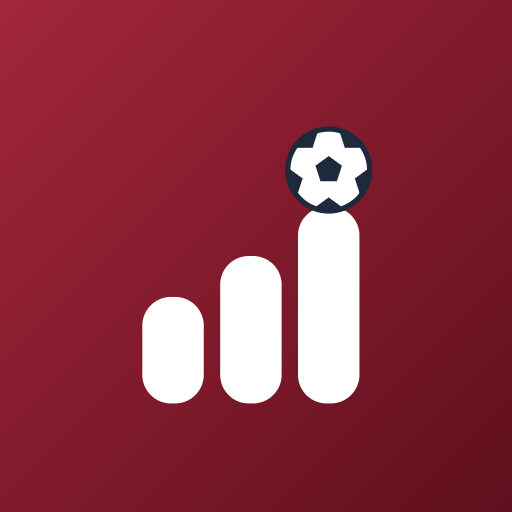
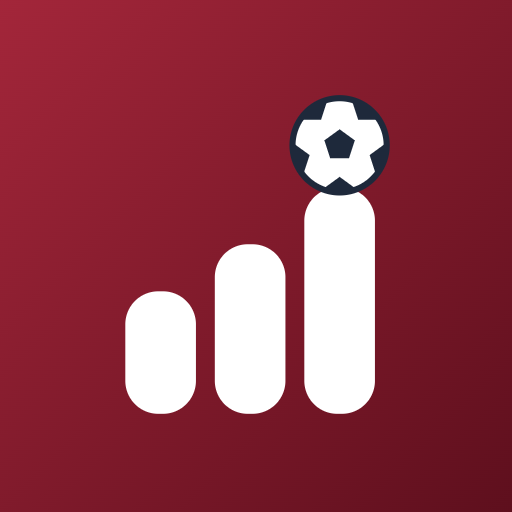
Store (PO-322, giro 116): Capacitor 8 / API 36, dist -210 MB, icona RGBA, onboarding tester, AAB provato
- Capacitor ^8.6.0 (target/compileSdk 36, minSdk 24), workflow Node 22 + JDK 21
- build-dist esclude assets/source e file non referenziati (348 -> 138 MB); validate-dist conta i 404 locali
- icona 512 PNG RGBA; TESTER_ONBOARDING con com.korward.elite e passi Google
- rapporto USCITA-STORE-184 aggiornato (AAB non firmato costruito, 105 MB) + RAPPORTO-giro116

Claude-Session: https://claude.ai/code/session_01QEYiaAySsCZ7nAqeyv7mNA

Changed region(s): [[0.5312, 0.1875, 0.7812, 0.8125], [0.375, 0.4375, 0.5938, 0.8125], [0.2188, 0.5625, 0.375, 0.8125]]

diff --git a/docs/governo/USCITA-STORE-184.md b/docs/governo/USCITA-STORE-184.md
@@ -1,0 +1,208 @@
+# USCITA-STORE-184 — Verifica di preparazione a Google Play (PO-322)
+
+> Base: `lavoro/184` = main = **7.999.183** · ramo `collaudo/184-store` · data: 07/11/2026.
+> Sessione figlia di **sola lettura** sul gioco (`src/` non toccato). Nessuna credenziale usata, nessun account creato, nulla inviato a Google, nessuna firma.
+> Le pagine Google sono state lette il **07/11/2026** (URL sotto). Dove non ho potuto verificare: «Non posso confermarlo».
+
+## 0. Sintesi per il PO (in 6 righe)
+
+1. **Il gioco impacchettato funziona**: `build-dist` e `validate-dist` verdi, offline, AI spenta, zero richieste esterne, versione 7.999.183.
+2. **Manca il guscio Android generato** (`android/` non esiste nel repo, per scelta: lo crea `npx cap add android` — in CI o sul PC). **Nessun AAB è mai stato prodotto/verificato in questa sessione** (rete a `dl.google.com` non provata/documentata come bloccata; SDK Android assente).
+3. **BLOCCO TECNICO NUOVO: livello API.** Il repo usa Capacitor `^6.2.0`, che per default punta a **API 34**. Google, dal **31/08/2026**, richiede per le nuove app **API 36 o superiore** (proroga fino al 01/11/2026 solo per chi la chiedeva: è già scaduta). Con Capacitor 6 l'upload verrebbe rifiutato. Serve passare a Capacitor 8 (default API 36) o forzare `targetSdkVersion=36`. `PACKAGING.md` e `PLAY_STORE_READINESS.md` dicono «API 35»: **sono superati**.
+4. **BLOCCO DI PESO/PULIZIA:** `dist/` pesa **336 MB** (298 MB compresso) perché include `assets/source/` (142 MB: FBX originali, `TEXTURES.zip`, modello CGTrader sorgente), che il gioco **non referenzia** (0 occorrenze in `index.html`). Senza quella cartella: **194 MB / 157 MB compresso**. Il limite Google del base module è 500 MB compressi, quindi entra comunque, ma oltre 200 MB l'utente su rete mobile vede un avviso; e distribuire i file sorgente di un modello acquistato è un **rischio di licenza** (da verificare, vedi §4).
+5. **Test chiuso**: se l'account Play è personale e creato dopo il 13/11/2023, servono **≥12 tester per 14 giorni consecutivi** prima della produzione → **«fra 2-3 giorni» in produzione non è raggiungibile** per questo percorso. Non so se l'account esista né di che tipo: «Non posso confermarlo».
+6. **Il PO deve decidere/fare 14 cose** (§7); le prime tre sbloccano tutto.
+
+## 1. Cosa è già stato preparato e quando
+
+Fonti: `PLAY_STORE_READINESS.md` (studio, v5.45.2), `PACKAGING.md`, `STORE_LISTING.md`, `PRIVACY_POLICY.md` + `privacy.html`, `TESTER_ONBOARDING.md`, `capacitor.config.json`, `.github/workflows/android-build.yml`, `store-assets/`, `resources/`, CLAUDE.md. Date: i commit visibili nella cronologia attuale di questi file sono `71d4edf9` e `e1fc7fd7` del 21/10/2026 e `29b6b6c7` del 02/11/2026; le date originali di creazione di ciascun file non le ho ricostruite (**non posso confermarle**). Il testo di `PRIVACY_POLICY.md` porta «6 agosto 2026».
+
+| Roadmap | Cosa | Stato dichiarato nei documenti |
+|---|---|---|
+| 1.1 | Precompilazione JSX (`tools/build-dist.mjs`) | fatto, **riverificato oggi** |
+| 1.2 | Bundle locale, zero CDN | fatto, **riverificato oggi** |
+| 1.3 | Capacitor: `package.json`, `capacitor.config.json`, `resources/`, CI `android-build.yml` | scaffold; «resta compilare l'AAB su PC/CI» |
+| 1.4 | Storage nativo (`@capacitor/preferences`) + export/import salvataggio | fatto (in build) |
+| 1.5 | De-branding + `tools/audit-copyright.mjs` | fatto (tecnico) — **non rieseguito oggi** (vedi §2) |
+| 1.6 | AI spenta in build store (`__CPM_STORE_BUILD`) | fatto, **riverificato oggi** |
+| 1.6b | Bottone donazione (PayPal) | fatto in codice — **vedi rischio §4** |
+| 1.7 | Privacy policy (bozza) | `privacy.html` **online (HTTP 200 oggi)**; data «6 agosto 2026» |
+| 1.8 | Account Play, keystore, Play App Signing | **non fatto** (solo PO) |
+| 1.9 | Testi scheda, icona 512, feature graphic, 3 screenshot | grafiche presenti; screenshot «grezzi» |
+| 1.10 | Error boundary globale | fatto |
+| 1.11 | Test su device entry-level reale | **non fatto** |
+
+## 2. Esecuzione degli strumenti (oggi, uno alla volta)
+
+Prerequisito: in questa sessione mancava `tests/visual/node_modules`; ho eseguito `npm install` in `tests/visual` (come da PACKAGING.md). Il modulo `playwright` cercava una build browser assente → ho usato `CPM_CHROME=/opt/pw-browsers/chromium` (regola CLAUDE.md), senza `playwright install`.
+
+| Strumento | Esito | Uscita significativa |
+|---|---|---|
+| `node tools/build-dist.mjs` | **OK** (exit 0, 7,2 s) | JSX 6582 KB → 5439 KB transpilato; «CH38 escluso dal pacchetto: 10,99 MB»; `dist/index.html` 6528 KB (6.684.939 byte); «CDN residue: nessuna · Babel-in-browser rimosso» |
+| `node tools/validate-dist.mjs` | **OK** (exit 0) | React montato ✅ · home con «Nuova carriera» ✅ · richieste esterne **nessuna** ✅ · errori console **nessuno** ✅ · flag build store attivo ✅ → «DIST OFFLINE FUNZIONANTE» |
+| `node tools/gen-store-graphics.mjs` | **OK** | rigenera `play-icon-512.png` e `feature-graphic.png`; i file rigenerati differivano dai versionati (binari non deterministici): **ripristinati con `git checkout`**, nessuna modifica committata |
+| `node tools/audit-copyright.mjs` | **NON ESEGUITO** | non richiesto dal mandato; CLAUDE.md lo dichiara «obbligatorio, 0 hit» prima di pubblicare → da rilanciare dal team (§7, T4) |
+
+## 3. Verifiche sulla build store (`dist/`)
+
+Sonda scritta nello scratchpad, caricando `dist/` con rete esterna bloccata e una chiave finta `cpm-api-key` in `localStorage`, su 4 URL (`""`, `?cpmtest=1`, `?cpmtest=1&sit=5`, `?glb=0&debug=1`).
+
+| Verifica | Risultato | Prova |
+|---|---|---|
+| Funzione AI spenta | **OK** | `window.__CPM_STORE_BUILD===true`; `callClaudeAPI()` con chiave presente → `{success:false,error:"disabled_store_build"}` (`src/09-audio-scout-anagrafiche.jsx:521-523`). Il solo riferimento a `api.anthropic.com` nel bundle è nel ramo non raggiungibile |
+| Nessuna chiamata di rete esterna | **OK** | 0 richieste esterne su tutti e 4 gli URL (rete bloccata, `ext=[]`) |
+| `GAME_VERSION` | **OK** | sorgente `7.999.183`; la UI della build mostra «7.999.183» |
+| Ganci di collaudo | **PARZIALE / da verificare** | `_CPM_TEST` è escluso nella build store (`!window.__CPM_STORE_BUILD && cpmtest`) e `?cpmtest=1` da solo non cambia nulla (37 globali `__CPM_*` in entrambi i casi). Ma **37 globali `__CPM_*` esistono sempre** (es. `__CPM_TIMELINE`, `__CPM_EV`, `__CPM_MIGRATE`, `__CPM_PERSIST167`, `__CPM_ERRLOG`, `__CPM_SITS`) e con `?cpmtest=1&sit=5` salgono a **141** e la pagina entra in scena di prova (la UI non mostra la versione). In app Capacitor l'utente non può digitare un URL con parametri, quindi il rischio pratico è **basso**; lo dichiaro perché l'obiettivo «niente ganci esposti» è **soddisfatto per l'utente finale ma non per chi ispeziona la WebView** |
+| Peso pacchetto | **ATTENZIONE** | vedi tabella sotto |
+| Icone/grafiche | **OK** | vedi tabella sotto |
+| Manifest PWA (`dist/manifest.webmanifest`) | OK | 192, 512, maskable 512; nome «Korward Elite: Football Career Simulator» |
+
+Peso (misurato oggi):
+
+| Contenuto | Non compresso | Compresso (tar.gz, indicativo) |
+|---|---|---|
+| `dist/` completa | 336 MB, 1.122 file | **298 MB** |
+| senza `assets/source/` | **194 MB** | **157 MB** |
+| `assets/source/` (inutilizzata dal gioco) | 142 MB | ~141 MB |
+| `index.html` | 6,4 MB | — |
+
+Il limite Google è sulla «dimensione compressa del download» calcolata da Play Console (non uguale al tar.gz): la cifra vera si saprà solo alla prima build dell'AAB. **Non posso confermarla** da qui.
+
+Grafiche (misurate con `file`) contro i requisiti letti su Google:
+
+| Asset | Nel repo | Requisito Google | Esito |
+|---|---|---|---|
+| Icona | `store-assets/play-icon-512.png` 512×512, **RGB (senza alfa)** | «32-bit PNG (with alpha)», 512×512, max 1024 KB | **da correggere**: manca il canale alfa. Peso da controllare (≤1024 KB) |
+| Feature graphic | `store-assets/feature-graphic.png` 1024×500, RGB | JPEG o PNG 24 bit senza alfa, 1024×500 | OK |
+| Screenshot | 3 PNG 1080×1920, RGB (`01-home`, `02-create`, `03-match`) | min **2**, max 8 per tipo di dispositivo, 24 bit senza alfa, lato 320–3840, rapporto ≤2:1; portrait ≥1080×1920 per i formati grandi | OK per dimensioni; sono catture headless |
+| Icone launcher Android | `resources/` 1024² (foreground con alfa + background) + `icon-*.png` | generate da `npm run assets:android` dopo `cap add android` | non verificabile qui (`sharp` bloccato) |
+
+## 4. Come diventa un'app Android — e cosa manca
+
+**Scelta già fatta e documentata: Capacitor** (WebView di sistema che carica `dist/` offline). Cordova/TWA non sono implementati: TWA è «piano B» nel documento (richiede hosting HTTPS + Digital Asset Links). Nel repo: `capacitor.config.json` (`appId com.korward.elite`), dipendenze `@capacitor/*` `^6.2.0`, workflow `.github/workflows/android-build.yml` (JDK 17, `cap add android`, versionCode da numero di run, `bundleRelease`, firma da secret, upload su Play facoltativo).
+
+**Manca / da correggere (tutto verificato nel repo):**
+
+1. **Nessun progetto `android/`** (creato a ogni run dalla CI: voluto). Nessun AAB mai compilato qui.
+2. **API di destinazione**: Capacitor 6.2.1 usa come default `targetSdk 34 / compileSdk 34 / minSdk 22` (letto oggi nel pacchetto npm `@capacitor/android@6.2.1`, file `build.gradle`); Capacitor 7.6.10: 35/23; **Capacitor 8.6.0: 36/24**. Sono i default della *libreria*; il valore finale dell'app lo fissa il template `variables.gradle` creato da `cap add android`: **da confermare dopo la prima generazione**. Opzioni: (a) aggiornare a Capacitor 8 (consigliata; richiede ritest di plugin e verifica di Node/JDK richiesti: **non verificati**); (b) restare su 6 e forzare `targetSdkVersion=36` (rischio: incompatibilità non testate con il plugin).
+3. **Coerenza nomi/ID**: `TESTER_ONBOARDING.md` riga 17 usa il link `…/com.elevora.football` mentre l'appId è `com.korward.elite` → link sbagliato per i tester. Da correggere (documento, non codice).
+4. **Permesso `INTERNET`**: il template lo include; PACKAGING.md suggerisce di toglierlo. Va deciso (vedi donazione).
+5. **Pacchetto**: escludere `assets/source/` da `dist/` (modifica a `tools/build-dist.mjs`, fuori dal mio mandato di sola lettura). Controllare inoltre che `assets/source/cgtrader-soccer-player` (19 file tracciati in git, incl. `originals/*.fbx`, `TEXTURES.zip`) possa essere distribuito: la **licenza** del modello acquistato non l'ho letta → «Non posso confermarlo».
+6. **Donazione PayPal** (`DONATION_URL="https://paypal.me/elevoraCPM"`, `src/07-versione-save-interviste.jsx:64`, bottone «☕ Sostieni il progetto» in `src/18-career-app.jsx:12141`, presente nella build store). La pagina Google «Payments» (answer/9858738, letta oggi) vieta di indirizzare gli utenti a un metodo di pagamento diverso da Google Play Billing; l'esenzione che ho letto cita le **«tax exempt donations»**, e non chiarisce il caso di mance a uno sviluppatore individuale. **Non posso confermare** che il bottone sia ammesso → rischio di rifiuto in revisione. Opzioni: toglierlo dalla build store (`DONATION_URL=""` nasconde il bottone, secondo il codice) o chiedere conferma al supporto Play.
+7. **Test su dispositivo reale** (avvio, fps, memoria, WebView datata): mai fatto (1.11). La build è 194–336 MB e usa Three.js r128 + GLB: **rischio concreto** su telefoni di fascia bassa; nessun dato misurato.
+
+## 5. Requisiti Google Play Console (pagine lette il 07/11/2026)
+
+| Argomento | Cosa dice la fonte | Fonte (letta 07/11/2026) |
+|---|---|---|
+| Target API | Dal **31/08/2026** nuove app e aggiornamenti: **Android 16 (API 36) o superiore** (Wear/Auto: 35; TV/XR: 34). Proroga fino al 01/11/2026 su richiesta (scaduta). App esistenti: API 35 per restare visibili ai nuovi utenti su OS più recenti | https://developer.android.com/google/play/requirements/target-sdk |
+| Livello API minimo (minSdk) | Google non impone un minSdk per le app normali nelle pagine lette; le app >1 GB richiedono minSdk ≥21. Il minSdk lo decide il template Capacitor (22/23/24 a seconda della versione) | https://support.google.com/googleplay/android-developer/answer/9859372 · pacchetti npm Capacitor |
+| Formato AAB | La pagina «Manage your app and app bundles» descrive upload di un app bundle per release; il frammento letto **non dice esplicitamente «obbligatorio»** → «Non posso confermare» il testo letterale (PACKAGING.md lo dà per obbligatorio dal 2021: non verificato oggi) | https://support.google.com/googleplay/android-developer/answer/9859152 |
+| Firma | «Android requires that all apps be digitally signed…»; si può usare chiave generata da Google (Play App Signing) o propria | stessa pagina |
+| Dimensioni | Base module **500 MB** compressi; asset pack 1,5 GB; totale install-time 4 GB; sopra 200 MB avviso non bloccante su rete mobile; APK legacy 100 MB | https://support.google.com/googleplay/android-developer/answer/9859372 |
+| Testi scheda | Titolo **30**, descrizione breve **80**, completa **4.000** caratteri | https://support.google.com/googleplay/android-developer/answer/9859152 |
+| Icona | PNG 32 bit con alfa, **512×512**, max **1024 KB** | https://support.google.com/googleplay/android-developer/answer/9866151 |
+| Feature graphic | JPEG o PNG 24 bit senza alfa, **1024×500** | stessa pagina |
+| Screenshot | min **2**, max 8 per tipo di dispositivo; JPEG/PNG 24 bit senza alfa; lato 320–3840 px, lato lungo ≤2× il corto | stessa pagina |
+| Classificazione contenuti (IARC) | La pagina answer/9859751 non tratta il questionario: **«Non posso confermarlo»** da fonte ufficiale. Per `Pubblicare` la Console mostra gli errori da risolvere | https://support.google.com/googleplay/android-developer/answer/9859751 |
+| Data Safety | «All developers that have an app published on Google Play must complete the Data safety form» (esclusi test interni, servizi di sistema, app private); da compilare **anche se non si raccolgono dati**; il trattamento solo locale non va dichiarato come raccolta. Pagina aggiornata 05/12/2023 | https://support.google.com/googleplay/android-developer/answer/10787469 |
+| Informativa privacy | Link obbligatorio **nella scheda e nell'app**, anche senza dati personali; URL pubblico http/https | https://support.google.com/googleplay/android-developer/answer/9859455 (letto: contenuto sul link nell'app) |
+| Pubblico di destinazione | Dichiarazione obbligatoria (App content → Target audience and content) per nuove app e aggiornamenti, dopo aver dichiarato annunci/accesso e inserito la privacy policy; la dichiarazione errata può portare a rimozione/sospensione (sintesi da ricerca web su answer/9285070 e 9893335: **non letta direttamente la pagina**) | https://support.google.com/googleplay/android-developer/answer/9285070 |
+| Test chiuso (account personali nuovi) | Account personali creati dopo il **13/11/2023**: closed test con **≥12 tester iscritti ininterrottamente per ≥14 giorni**; 14 giorni consecutivi (se un tester esce e rientra il conteggio riparte) | https://support.google.com/googleplay/android-developer/answer/14151465 |
+| Pagamenti | vietato guidare verso metodi di pagamento diversi da Google Play Billing; eccezioni per «tax exempt donations» e programmi di fatturazione alternativa | https://support.google.com/googleplay/android-developer/answer/9858738 |
+| Verifica identità, tempi di revisione | Solo fonti terze (blog): revisione dell'accesso alla produzione «di solito entro 7 giorni», identità con documento. **Non confermato da Google → «Non posso confermarlo»** | ricerca web, nessuna pagina ufficiale letta |
+
+## 6. Tabella requisito · stato · prova · chi
+
+Legenda: **pronto** / **manca** / **da verificare**. «Team» = fattibile da una sessione di lavoro; «PO» = solo il proprietario.
+
+| # | Requisito | Stato | Prova | Chi |
+|---|---|---|---|---|
+| 1 | Build web offline, senza CDN | pronto | §2 `validate-dist` verde | team |
+| 2 | AI spenta, nessuna chiamata esterna | pronto | §3 sonda: `disabled_store_build`, 0 richieste | team |
+| 3 | `GAME_VERSION` coerente | pronto | 7.999.183 nel sorgente e nella UI della build | team |
+| 4 | Ganci di collaudo non esposti | da verificare | 37 globali `__CPM_*` sempre presenti; `?cpmtest=1&sit=5` attiva scena di prova; rischio basso in app | team (decisione PO se chiuderli) |
+| 5 | Peso del pacchetto | **pronto (giro 116)** | dist 348 MB/298 MB compr. → **138 MB/107 MB**; AAB 110 MB (§9) | team |
+| 6 | File sorgente del modello 3D nel pacchetto | **pronto nel pacchetto** · licenza da verificare | `assets/source/` fuori da `dist/` e dall'AAB (0 file `assets/source` nel bundle); licenza del modello non letta | PO (licenza) |
+| 7 | Guscio Android (progetto `android/`) | **pronto** | `npx cap add android` + `cap sync` eseguiti in sessione (Capacitor 8.6.0); `android/` resta non versionato | team |
+| 8 | AAB compilato | **fatto (non firmato)** | `./gradlew bundleRelease` BUILD SUCCESSFUL, `app-release.aab` 109.731.296 byte (§9). Firma: solo PO | team / PO (firma) |
+| 9 | Target API 36 | **pronto** | Capacitor `^8.6.0`; manifest fuso della release: `targetSdkVersion="36"` (§9) | team |
+| 10 | minSdk | **pronto** | `minSdkVersion="24"` nel manifest fuso (§9) | team |
+| 11 | Firma / keystore upload | manca | nessun keystore nel repo; workflow legge i secret | **PO** (crea e custodisce) |
+| 12 | Play App Signing | manca | si attiva in Console al primo upload | **PO** |
+| 13 | Account sviluppatore Play | da verificare | non so se esista né di che tipo: «Non posso confermarlo» | **PO** |
+| 14 | Test chiuso 12 tester / 14 giorni | manca (solo PO) | requisito Google riletto il 07/11/2026; `TESTER_ONBOARDING.md` corretto (`com.korward.elite`, passi dalla pagina answer/14151465) | **PO** (tester) |
+| 15 | Icona 512 | **pronto (giro 116)** | `file`: 512×512, 8-bit/color **RGBA**; 25.069 byte (≤1024 KB); generata da `tools/gen-store-graphics.mjs` corretto | team |
+| 16 | Feature graphic 1024×500 | pronto | RGB 1024×500 | team |
+| 17 | Screenshot ≥2 | pronto (qualità da valutare) | 3 × 1080×1920; catture headless | team / PO per scelta |
+| 18 | Testi scheda | pronto | `STORE_LISTING.md`: titolo 30/30, breve 78/80, completa ~1.500/4.000 | PO (approva) |
+| 19 | Disclaimer nomi di fantasia | pronto | nella descrizione completa | team |
+| 20 | Audit de-branding (0 hit) | **pronto** | `node tools/audit-copyright.mjs` → «OK — nessun riferimento al mondo reale», exit 0 (07/11/2026) | team |
+| 21 | Informativa privacy online | pronto | `privacy.html` HTTP 200; data 06/08/2026; email contatto presente | PO (conferma contenuto) |
+| 22 | Link privacy anche dentro l'app | **manca nel gioco** | `grep -i privacy src/*.jsx`: 0 occorrenze di un link/URL all'informativa (solo commenti non correlati). Da aggiungere nel pannello Crediti (`Crediti238`, `src/17-menu-creazione-pannelli.jsx`) o in Opzioni, con `privacy.html`; **non aggiunto in questo giro** | team (giro successivo, tocca `src/`) |
+| 23 | Data Safety | manca | si compila in Console: «nessun dato raccolto/condiviso» (compatibile con §3); da rivedere se si tiene `INTERNET`/donazione | **PO** |
+| 24 | Classificazione contenuti IARC | manca | questionario in Console; atteso PEGI 3 (stima del repo, non verificata) | **PO** |
+| 25 | Pubblico di destinazione | manca | dichiarazione in Console | **PO** |
+| 26 | Donazione PayPal in app | da verificare | rischio policy pagamenti, §4.6 | **PO** (decide) |
+| 27 | Prova su telefono reale | manca | mai misurato (1.11) | **PO** (device) + team |
+
+## 7. Azioni che solo il PO può fare — in ordine, con tempi
+
+Stime del **lavoro del PO**; i tempi di attesa di Google sono quelli che ho potuto o non potuto confermare.
+
+| Ord. | Azione | Tempo PO | Attesa Google |
+|---|---|---|---|
+| 1 | **Decidere** il percorso di pubblicazione e dire al team: (a) Capacitor 8 con API 36; (b) togliere dalla build `assets/source/`; (c) togliere o tenere il bottone PayPal | 15 min | — |
+| 2 | **Verificare la licenza** del modello CGTrader (se si possono distribuire i file sorgente/FBX) | 30 min | — |
+| 3 | **Creare/verificare l'account Play Console** (25 $ una tantum secondo i documenti del repo — importo non riletto oggi) con la propria identità e capire se è «personale» o «organizzazione» | 30-60 min | verifica identità/pagamento: **non confermabile** |
+| 4 | **Generare il keystore di upload** (`keytool`, comando in `PACKAGING.md`) e custodirlo (una copia fuori dal PC) | 15 min | — |
+| 5 | **Inserire i 4 secret** nel repository GitHub (`ANDROID_KEYSTORE_BASE64`, `…_PASSWORD`, `…_KEY_ALIAS`, `…_KEY_PASSWORD`) e, se vuole l'upload automatico, `PLAY_SERVICE_ACCOUNT_JSON` | 20-40 min | — |
+| 6 | **Lanciare il workflow «Android AAB»** (dopo i fix del team) e scaricare l'`.aab` | 10 min + durata CI (non misurata) | — |
+| 7 | **Creare l'app in Console** e caricare il primo AAB **a mano** (il primo upload è manuale, secondo PACKAGING.md) in un test chiuso | 30-45 min | elaborazione AAB: **non confermabile** |
+| 8 | **Compilare le sezioni «App content»**: Data Safety (nessun dato), IARC, pubblico di destinazione, annunci = no, privacy URL `https://antoniovairo-rgb.github.io/Carrier-manager-/privacy.html` | 45-60 min | eventuale revisione Google: **non confermabile** |
+| 9 | **Compilare la scheda**: testi di `STORE_LISTING.md`, icona, feature graphic, screenshot | 30-45 min | — |
+| 10 | **Reclutare almeno 12 tester** (meglio 15-20) con account Google e Android, mandare il link di opt-in (usare l'ID **corretto** `com.korward.elite`) | 1-2 giorni di solleciti | — |
+| 11 | **Tenerli iscritti 14 giorni consecutivi** | 0 (attesa) | **14 giorni minimi** (Google, answer/14151465) |
+| 12 | **Richiedere l'accesso alla produzione** in Console | 15 min | **Non posso confermarlo**: una fonte non ufficiale riporta «di solito entro 7 giorni» |
+| 13 | **Provare l'app su un telefono Android vero** (anche non di fascia bassa) durante il test chiuso | 1-2 ore | — |
+| 14 | **Promuovere a produzione** e pubblicare | 15 min | revisione della prima pubblicazione: **non confermabile** |
+
+**Lettura onesta dei tempi:** se l'account è personale e nuovo, il percorso minimo è ~14 giorni di test + eventuale revisione, più il lavoro tecnico del team (Capacitor/API 36, peso, icona, prima build) di qualche giorno. «Fra 2-3 giorni» è realistico **solo** per arrivare a un **test chiuso/interno**, non alla produzione. Se l'account è di tipo organizzazione, il requisito dei 12 tester potrebbe non applicarsi (**non confermato da fonte ufficiale**).
+
+## 8. Cosa ho e non ho fatto
+
+- Fatto: lettura documenti, `npm install` in `tests/visual`, `build-dist`, `validate-dist`, `gen-store-graphics` (output ripristinato), sonda su `dist/`, lettura di 9 pagine Google, confronto con i default dei pacchetti Capacitor 6/7/8.
+- **Non** fatto: `audit-copyright`, `cap add android`, compilazione AAB (SDK assente), prova su dispositivo, lettura diretta della pagina «Target audience» e della pagina IARC.
+- Nessuna modifica a `src/`, a `tools/`, a `CARRIER-MANAGER-AV.html`; `dist/` e `node_modules` non versionati.
+
+
+## 9. Aggiornamento giro 116 (07/11/2026) — parte tecnica di PO-322
+
+Ramo `sviluppo/giro116-store`, base `lavoro/184` = 7.999.183. `src/`, `CARRIER-MANAGER-AV.html` e `GAME_VERSION` non toccati (`check-src` allineato). Nessuna credenziale, nessun account, nulla inviato a Google, nessuna chiave committata.
+
+**9.1 Target API 36.** Passato a Capacitor 8.6.0 (`@capacitor/{cli,android,core}` `^8.6.0`, preferences `^8.0.1`, splash-screen `^8.0.2` — ultime versioni su npm il 07/11/2026). Letto sui pacchetti npm reali: `@capacitor/cli@8.6.0` richiede **Node ≥ 22**; `@capacitor/android@8.6.0` usa **JDK 21** (`VERSION_21`) e default compileSdk 36 / minSdk 24 / targetSdk 36; il template Android del CLI (`variables.gradle`) dà **minSdk 24 · compileSdk 36 · targetSdk 36**, AGP 8.13.0, Gradle 8.14.3. Workflow `android-build.yml`: Node 20→22, JDK 17→21. `PACKAGING.md` e `PLAY_STORE_READINESS.md` aggiornati. Esplicitamente **non** verificato in CI: il workflow non è stato eseguito (nessun push di tag).
+
+**9.2 Pacchetto più leggero.** `tools/build-dist.mjs` esclude `assets/source/`, i `README.md` di `assets/` e 12 file il cui nome non compare in nessun sorgente (5 GLB `hyper-casual-korward-{animated,football,football-black|brown|red}`, `cgtrader-review-lod1/2.glb`, `cgtrader-unreal-axis-…glb`, `cgtrader-ajax-shirt-review.png`, `hero-highlight-portrait-v1.{png,webp}`). I file a nome costruito a runtime (`portraits/`, `avatar-N`, `anim-*`, `hair-colors/`, `korward-regular-*`) restano tutti. Rete di sicurezza: la build fallisce (exit 3) se un `./assets/…` letterale della pagina manca in `dist/`; `CPM_DIST_CON_SORGENTI=1` rimette tutto.
+
+| | file | non compresso | tar.gz |
+|---|---|---|---|
+| prima (`CPM_DIST_CON_SORGENTI=1`) | 1.117 | 348.187.994 B (332 MB) | 297.577.757 B (284 MB) |
+| dopo | 1.089 | 138.093.931 B (132 MB) | 106.587.713 B (102 MB) |
+
+(Il «336 MB / 194 MB» di §3 era `du -sh` in MiB con altro conteggio; qui `du -sb`, byte esatti.) Prova che il gioco gira uguale: `validate-dist` verde prima e dopo (React montato · home · 0 richieste esterne · 0 richieste locali fallite — controllo aggiunto a `validate-dist` · 0 errori console · flag store). Poiché la home carica solo 2 richieste, in più la sonda **`tests/visual/dist-assets-probe.mjs`** (non-gate) gioca una partita vera sul sorgente a GLB acceso (70 s, autoplay): **45 asset richiesti, 45 presenti in dist, 0 mancanti**. Limite: una partita, non ogni scena.
+
+**9.3 Icona.** `tools/gen-store-graphics.mjs` ora scrive `play-icon-512.png` come PNG RGBA (re-encode a colour type 6, alfa 255): 512×512, 8-bit RGBA, 25.069 B. Visivamente verificata. `feature-graphic.png` non modificata (RGB 1024×500, come richiesto).
+
+**9.4 Tester.** `TESTER_ONBOARDING.md`: ID `com.korward.elite`, nome app «Korward Elite», passi del test chiuso dalla pagina Google answer/14151465, **riletta il 07/11/2026** (la pagina non riporta una data di aggiornamento; mostra «©2026 Google»; dice 12 tester · 14 giorni consecutivi · «Apply for production» con tre sezioni · «Review usually takes seven days or less»; non descrive i click per aggiungere i tester).
+
+**9.5 Audit copyright:** 0 hit, exit 0.
+
+**9.6 Privacy in app:** assente (riga 22 tabella). Punto consigliato: pannello Crediti (`Crediti238`) o Opzioni, link a `https://antoniovairo-rgb.github.io/Carrier-manager-/privacy.html`. Non aggiunto.
+
+**9.7 Build AAB — riuscita (non firmata).** Rete: `dl.google.com`, `maven.google.com`, `services.gradle.org`, `plugins.gradle.org` → HTTP 200. Passi: `npm install` (radice e `tests/visual`), `npm run build:web`, `npx cap add android`, `npx cap sync android`, command-line tools Android (`commandlinetools-linux-13114758`) + `platforms;android-36`, `build-tools;36.0.0`, `platform-tools` in `/opt/android-sdk`, `./gradlew bundleRelease`. I primi due tentativi sono falliti per **HTTP 429 «Too Many Requests» da `repo.maven.apache.org`** (limite del proxy di sessione, es. `gson-2.11.0.pom`); il terzo ha completato — «BUILD SUCCESSFUL in 1m». Esito:
+- `android/app/build/outputs/bundle/release/app-release.aab` = **109.731.296 byte (105 MB)**, 1.532 voci (146.188.520 B scompattati), 0 voci `assets/source`.
+- Manifest fuso della release (`merged_manifest/release`): `package="com.korward.elite"`, **`minSdkVersion="24"`, `targetSdkVersion="36"`**, `versionCode=1` (la CI lo sovrascrive), permesso `INTERNET` presente. Letto dal manifest fuso e non dall'interno dell'AAB: **bundletool** non è stato scaricato (la richiesta di scaricare il jar da GitHub è stata negata dalla sessione) e `aapt2 dump` non legge il manifest in formato proto. Il manifest proto dentro l'AAB deriva da quello fuso, ma «non posso confermarlo» byte per byte.
+- AAB **non firmato**, non committato (`android/` è in `.gitignore`); nessuna chiave generata.
+- **Nota di peso:** 105 MB di AAB contro i 107 MB di tar.gz della dist: compatibile con il limite Google di 500 MB sul base module (§5); il valore compresso «ufficiale» lo calcola la Console.
+
+**9.8 Verifiche di non-regressione:** `check-src` allineato byte per byte · `validate-dist` verde · `test:logic` 43/43 · `save-compat` 12 pass/0 fail.

diff --git a/PLAY_STORE_READINESS.md b/PLAY_STORE_READINESS.md
@@ -130,7 +130,7 @@ Il prezzo da pagare (update via store, WebView di sistema) è accettabile e gest
 - **Account Google Play Developer:** **25 $ una tantum** (non annuale), 1 sola volta per l'account. Identità verificata (dal 2023 Google richiede verifica D-U-N-S per account *organizzazione*; per account **personale** servono nome/indirizzo verificati e, per i nuovi account personali, **test chiuso con ≥12 tester per 14 giorni** prima della produzione — vincolo recente da pianificare).
 - **Formato:** **AAB obbligatorio** (l'APK non è più accettato per i nuovi upload dal 2021). Bubblewrap/Capacitor producono entrambi AAB.
 - **Firma:** **Play App Signing** raccomandato/predefinito — carichi un *upload key*, Google gestisce la *signing key* finale. **Conserva il keystore upload + password** in modo sicuro (se lo perdi, recupero possibile ma macchinoso). Va creato un **keystore** (`.jks`) una tantum.
-- **Target API level:** Google impone di **targettizzare un'API level recente**. Regola corrente: i nuovi upload devono targettizzare un livello entro ~1 anno dall'ultima major Android (al 2025: **API 35 / Android 15** per nuove app e aggiornamenti). Va verificato in Console al momento del rilascio: è una **moving target** annuale.
+- **Target API level:** **SUPERATO (giro 116, 07/11/2026).** Dal 31/08/2026 le nuove app devono puntare ad **API 36 o superiore** (https://developer.android.com/google/play/requirements/target-sdk). Il repo è passato a **Capacitor 8.6.0** (target 36, minSdk 24). Il testo originale («API 35, ~1 anno») è storico.
 - **Permessi:** dichiarati nel `AndroidManifest`. Per noi servono **pochissimi** (vedi §5): di base **`INTERNET`** (solo se teniamo la feature AI o gli ads); idealmente **nessun permesso sensibile**.
 
 ---
@@ -342,7 +342,7 @@ Legenda costo/tempo: **S** ≤½ gg · **M** 1–2 gg · **L** sprint. Priorità
 | **1.0** | **🔴 REFACTOR QUALITÀ LIVE MATCH 3D — animazioni + regia/camera** (parte per primo; vedi §10.bis) | **L+** (multi-sprint, a tempo aperto) | **Alto** (perceptual/gate-blind) | **P0 #1** |
 | 1.1 | ✅ **FATTO** — **Precompilare il JSX** (`tools/build-dist.mjs`): build di packaging che elimina Babel-in-browser; sorgente HTML invariato | M | Basso | **P0** |
 | 1.2 | ✅ **FATTO** — **Bundle locale** di React/ReactDOM/Three(+loaders) inline nella dist; zero CDN nell'artefatto. Validato offline (`tools/validate-dist.mjs`) | M | Basso | **P0** |
-| 1.3 | ✅ **FATTO (scaffold)** — **Packaging Capacitor**: `package.json` + `capacitor.config.json` (appId `com.elevora.football`, `webDir=dist`, splash), script npm, bridge **storage nativo** in build, **icona/splash granata** (`resources/` + `tools/gen-assets.mjs`), **CI** `.github/workflows/android-build.yml`. Guida in `PACKAGING.md`. *Resta:* compilare l'AAB su PC/CI con Android SDK | M | Basso-medio | **P0** |
+| 1.3 | ✅ **FATTO (scaffold)** — **Packaging Capacitor**: `package.json` + `capacitor.config.json` (appId `com.korward.elite`, `webDir=dist`, splash), script npm, bridge **storage nativo** in build, **icona/splash granata** (`resources/` + `tools/gen-assets.mjs`), **CI** `.github/workflows/android-build.yml`. Guida in `PACKAGING.md`. *Resta:* compilare l'AAB su PC/CI con Android SDK | M | Basso-medio | **P0** |
 | 1.4 | ✅ **FATTO** — **Storage nativo** via wrapper `storage` (`window.storage` anti-eviction, già presente) + **export/import** save (`exportSave`/`importSave`, già nella UI) | M | Basso | **P0** |
 | 1.5 | ✅ **FATTO (tecnico)** — **Chiusura de-branding**: rinominati gli ultimi 2 club reali (Dortmund/Leverkusen→Goldwald/Werkstadt); `_auditCopyrightSafety` → **gate CI bloccante** (`tools/audit-copyright.mjs`, 0 hit). *Resta:* disclaimer testuale nel listing (asset, 1.9) | M | Medio | **P0** |
 | 1.6 | ✅ **FATTO** — **Feature AI disattivata nella build store** (`window.__CPM_STORE_BUILD` impostato da `build-dist.mjs` → `callClaudeAPI` esce subito; zero chiamate esterne) → Data Safety "nessun dato". Validato in `validate-dist.mjs` | S | Basso | **P0** |

diff --git a/TESTER_ONBOARDING.md b/TESTER_ONBOARDING.md
@@ -2,8 +2,23 @@
 
 > Serve per soddisfare il requisito Google Play del **test chiuso** (account sviluppatore personale:
 > ≥12 tester iscritti per 14 giorni consecutivi prima di poter passare in produzione).
-> ⚠ Il numero e la durata esatti sono quelli che la **Play Console** mostra sul TUO account nella
-> schermata *Test → Test chiuso*: quella è la fonte autorevole, non questo file.
+> Fonte: pagina Google Play Console «Test requirements for new personal developer accounts»
+> (https://support.google.com/googleplay/android-developer/answer/14151465), **riletta il 07/11/2026**.
+> Dice: gli account personali creati dopo il 13/11/2023 devono eseguire un closed test con **almeno 12 tester**
+> iscritti **ininterrottamente per 14 giorni**; se un tester esce e rientra il conteggio riparte. La pagina
+> non riporta una data di aggiornamento. Resta autorevole ciò che la Console mostra sul TUO account.
+> ID pacchetto dell'app: **`com.korward.elite`**.
+
+**Passi secondo la pagina Google (riletta il 07/11/2026):**
+1. Completa la configurazione dell'app in Console («Complete app setup») prima di avviare il closed test.
+2. Esegui un closed test con ≥12 tester iscritti (reclutali nella tua rete personale/professionale).
+3. Di' ai tester che devono **restare iscritti** per tutti i 14 giorni consecutivi.
+4. Consulta i feedback in Console (*Testing feedback*) e riassumili nella richiesta di accesso alla produzione.
+5. Dalla Dashboard scegli **«Apply for production»**: il modulo ha tre sezioni — *About your closed test*,
+   *About your app/game*, *About your production readiness*.
+6. Google scrive «Review usually takes seven days or less», ma può richiedere di più. Se i tester sono meno di 12 o il
+   coinvolgimento è insufficiente, il closed test può dover continuare.
+La pagina **non** descrive i click in Console per aggiungere tester: per quelli vale la guida Google «Set up an open, closed, or internal test».
 
 ---
 
@@ -14,7 +29,7 @@
 3. **Tester:** crea un elenco di indirizzi email, oppure — più comodo — un **Gruppo Google**
    (`groups.google.com`, gruppo privato) e incolla l'indirizzo del gruppo. Così aggiungi o togli
    persone senza ricaricare nulla.
-4. Copia il **link di partecipazione** (`https://play.google.com/apps/testing/com.elevora.football`).
+4. Copia il **link di partecipazione** (`https://play.google.com/apps/testing/com.korward.elite`).
    È quello che manderai.
 
 Il conteggio dei 14 giorni parte da quando i tester **si iscrivono**, non da quando finisci lo
@@ -41,7 +56,7 @@ test palesemente finto può costare la review. Con 12 persone vere si risolve in
 
 ## 3. Il messaggio da inoltrare
 
-> Ciao! Ho scritto un gioco per Android — **Elevora**, un simulatore di carriera calcistica: controlli
+> Ciao! Ho scritto un gioco per Android — **Korward Elite**, un simulatore di carriera calcistica: controlli
 > un solo giocatore, dalle giovanili fino ai grandi stadi, e ogni scelta dentro e fuori dal campo
 > costruisce la sua storia. È gratis, senza pubblicità e senza acquisti.
 >

diff --git a/PACKAGING.md b/PACKAGING.md
@@ -2,7 +2,7 @@
 
 Pipeline per trasformare il gioco (singolo file `CARRIER-MANAGER-AV.html`) in un **Android App Bundle (.aab)** pubblicabile. Il **sorgente di lavoro non cambia mai**: il packaging produce solo artefatti derivati.
 
-> Stato roadmap: **1.1 precompila JSX** ✅ · **1.2 bundle locale/offline** ✅ · **1.6 build store (AI off)** ✅ · **1.3 Capacitor** ✅ scaffold. Manca solo la build dell'AAB su una macchina con Android SDK (qui in cloud `dl.google.com` è bloccato).
+> Stato roadmap: **1.1 precompila JSX** ✅ · **1.2 bundle locale/offline** ✅ · **1.6 build store (AI off)** ✅ · **1.3 Capacitor** ✅ scaffold. **Giro 116 (07/11/2026): l'AAB non firmato è stato costruito davvero in sessione cloud** (Capacitor 8.6.0, target API 36, 110 MB) — vedi `docs/governo/USCITA-STORE-184.md` §9. Resta la firma con la chiave di upload (solo PO).
 
 ## Cosa c'è nel repo
 
@@ -18,7 +18,7 @@ Pipeline per trasformare il gioco (singolo file `CARRIER-MANAGER-AV.html`) in un
 ## Prerequisiti (sulla TUA macchina)
 
 - **Node 18+** e **npm**.
-- **JDK 17+** (`java -version`). *(In questo ambiente cloud è già presente JDK 21.)*
+- **JDK 21** (`java -version`) e **Node ≥ 22**: li richiede Capacitor 8 (`@capacitor/cli` 8.6.0 ha `engines.node >=22`; i `compileOptions` di `@capacitor/android` 8.6.0 usano `VERSION_21`). *(Cloud: JDK 21.0.12 presente.)*
 - **Android SDK** — il modo più semplice è installare **Android Studio** (include SDK, build-tools, platform-tools e un device/emulatore). In alternativa solo le *command-line tools* + `sdkmanager "platform-tools" "platforms;android-34" "build-tools;34.0.0"`.
 - Variabile `ANDROID_HOME` (o `ANDROID_SDK_ROOT`) che punta all'SDK, oppure `android/local.properties` con `sdk.dir=/percorso/Android/Sdk`.
 
@@ -114,7 +114,7 @@ non dalla fine dello sviluppo → gli inviti vanno mandati **subito**, in parall
 
 - **Account Play Developer**: 25 $ una tantum. I nuovi account *personali* richiedono un **test chiuso con ≥12 tester per 14 giorni** prima della produzione → da pianificare.
 - **Formato**: **AAB obbligatorio** (l'APK non è accettato per i nuovi upload).
-- **Target API level**: i nuovi upload devono targettizzare un'API recente (al 2025 ≈ **API 35 / Android 15**). È una *moving target* annuale — verifica in Console al momento del rilascio e allinea `targetSdkVersion` in `android/variables.gradle`.
+- **Target API level**: dal **31/08/2026** nuove app e aggiornamenti devono puntare ad **API 36 (Android 16) o superiore** (https://developer.android.com/google/play/requirements/target-sdk, letta il 07/11/2026). Con **Capacitor 8.6.0** il template `variables.gradle` generato da `cap add android` dà **minSdk 24 · compileSdk 36 · targetSdk 36** (AGP 8.13.0, Gradle 8.14.3: letti nel pacchetto npm e nel progetto generato). Capacitor 6.2.1 dava 34/34/22, Capacitor 7.6.10 35/35/23: **non bastano più**.
 - **Versioning**: ad ogni upload incrementa `versionCode` (intero) in `android/app/build.gradle`; `versionName` è la stringa mostrata.
 
 ## Permessi

diff --git a/docs/sviluppo/RAPPORTO-giro116.md b/docs/sviluppo/RAPPORTO-giro116.md
@@ -1,0 +1,16 @@
+# RAPPORTO giro 116 — lotto 7.999.184, parte tecnica di PO-322 (uscita Google Play)
+
+Ramo `sviluppo/giro116-store` (da `lavoro/184`). Dettaglio, numeri e prove: `docs/governo/USCITA-STORE-184.md` §6 (tabella aggiornata) e §9.
+
+| # | Punto del mandato | Esito |
+|---|---|---|
+| 1 | Target API 36 | Capacitor 8.6.0 (target/compileSdk 36, minSdk 24, JDK 21, Node 22); workflow e doc aggiornati |
+| 2 | `assets/source/` e non referenziati fuori da `dist/` | 348 → 138 MB (298 → 107 MB tar.gz); `validate-dist` verde, 45/45 asset di una partita presenti |
+| 3 | Icona 512 con alfa | RGBA 512×512, 25 KB (generatore corretto) |
+| 4 | `TESTER_ONBOARDING.md` | ID `com.korward.elite`; passi da Google answer/14151465, riletta il 07/11/2026 |
+| 5 | `audit-copyright` | 0 hit |
+| 6 | Link privacy in app | **assente**: va messo in Crediti/Opzioni (non aggiunto) |
+| 7 | AAB | **costruito, non firmato**, 109.731.296 B, minSdk 24/targetSdk 36 (da manifest fuso); 2 tentativi su 3 falliti per HTTP 429 di Maven Central via proxy; bundletool non scaricato (negato) |
+| 8 | Ripetizione verifiche | `check-src` allineato · `validate-dist` · `test:logic` 43/43 · `save-compat` 12/0 |
+
+Non fatto / limiti: workflow CI non eseguito; nessuna firma; nessuna prova su telefono; sonda asset su una sola partita; privacy in app e bottone PayPal restano decisioni/lavori per il giro successivo. Nessun file di `src/` toccato.
